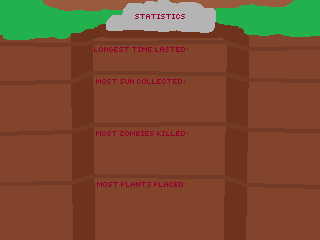
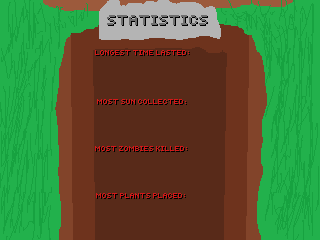
Time and sun collected nice and formatted on screen

diff --git a/src/game/game.cpp b/src/game/game.cpp
@@ -1,6 +1,7 @@
 #include "game.h"
 #include <memory>
 #include <time.h>
+#include <string>
 
 // Game is a singleton; no construction allowed.
 Game::Game() { }
@@ -10,6 +11,8 @@ void Game::init() {
     entities.push_back(testZomb);
     // Seed the generator to seconds since 1970
     srand(time(0));
+    // Record start time
+    startTime = time(0);
 }
 
 int Game::randiRange(int min, int max) {
@@ -44,9 +47,28 @@ bool Game::updateGame(std::shared_ptr<ClickEvent> event) {
         }
         idx++;
     }
+
+    // Writing twice to do a word shadow thing; first in black then in font color
+    int currentTime = time(0)-startTime;
     LCD.SetFontColor(BLACK);
-    LCD.WriteLine(sunAmount);
+    LCD.WriteAt(sunAmount,5,5);
+    LCD.WriteAt(stringifyTime(currentTime),131,5);
+
+    LCD.SetFontColor(YELLOW);
+    LCD.WriteAt(sunAmount,4,4);
+    LCD.SetFontColor(RED);
+    LCD.WriteAt(stringifyTime(currentTime),130,4);
     tick++;
+}
+
+std::string Game::stringifyTime(int time) {
+    int minutes = time / 60;
+    int seconds = time % 60;
+    if (seconds < 10) {
+        return std::to_string(minutes)+":0"+std::to_string(seconds);
+    } else {
+        return std::to_string(minutes)+":"+std::to_string(seconds);
+    }
 }
 
 void Game::spawnSunParticle() {

diff --git a/src/game/game.h b/src/game/game.h
@@ -4,18 +4,28 @@
 #include "entity.h"
 #include <vector>
 #include <memory>
+#include <string>
 
 // Game state singleton
 class Game {
     private:
+        // Game params
         long long tick {0};
+        int startTime {0};
         int sunAmount {0};
         std::vector<std::shared_ptr<Entity>> entities;
+        
+        // Tracked stats
+        int timeSurvived {0};
+        int totalSun {0};
+        int totalKills {0};
+        int plantsPlaced {0};
 
         Game();
         int randiRange(int,int);
         float randfRange(float,float);
         void spawnSunParticle();
+        std::string stringifyTime(int);
 
     public:
         static Game& instance() {
